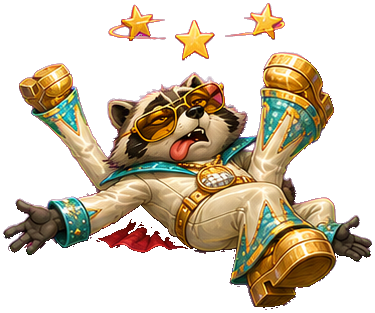
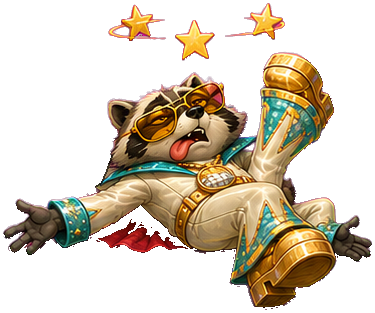
Jimothy: Disco ko loses the third leg at his shoulder, Robot ko loses the far right third leg (Stephen's call: cut it rather than remake); fresh cut edges get the painting's dark outline. ARTV 53. jimothy-check 60/60
Claude-Session: https://claude.ai/code/session_01S9L77GC2Lgd6XnbPF3XzMM

Changed region(s): [[0.0293, 0.2013, 0.3227, 0.6038]]

diff --git a/satellites/stream-hop/index.html b/satellites/stream-hop/index.html
@@ -13,7 +13,7 @@
 <link rel="preconnect" href="https://fonts.gstatic.com" crossorigin>
 <link href="https://fonts.googleapis.com/css2?family=Fredoka:wght@500;600;700&family=Nunito:wght@600;700;800&display=swap" rel="stylesheet">
 <link rel="manifest" href="manifest.webmanifest?v=29">
-<link rel="apple-touch-icon" href="assets/icons/jimothy-apple-180.png?a=52">
+<link rel="apple-touch-icon" href="assets/icons/jimothy-apple-180.png?a=53">
 <title>Jimothy Game: play the Seattle raccoon hopper free in your browser</title>
 <meta name="description" content="Meet Jumping Jimothy, Seattle's roundest and most beloved raccoon. Hop him across the rainy city to the greatest dumpster feast in town. Free to play in your browser.">
 <meta name="keywords" content="Jumping Jimothy, Jimothy, Jimothy the Jumping Nugget, Jimothy game, raccoon game, free browser game, Seattle raccoon, hopper, Sky Wolf Studio">
@@ -654,7 +654,7 @@ h2.sc-h{font-size:24px; color:var(--sage); font-weight:800; margin-bottom:4px}
 
   <!-- SPLASH (static ink-wash keyart front door — tap to enter. The old AI intro video is retired.) -->
   <div class="screen center on" id="s-splash" style="padding:0;background:#f2e7cf">
-    <img id="splash-img" src="assets/jimothy-hero.jpg?a=52" alt="Jimothy"
+    <img id="splash-img" src="assets/jimothy-hero.jpg?a=53" alt="Jimothy"
       style="position:absolute;inset:0;width:100%;height:100%;object-fit:contain;background:#f2e7cf">
     <div id="splash-tag">Jumping Jimothy</div>
     <div id="splash-hint">TAP TO START</div>
@@ -859,7 +859,7 @@ h2.sc-h{font-size:24px; color:var(--sage); font-weight:800; margin-bottom:4px}
   <!-- SUPPORT THE STUDIO -->
   <div class="screen" id="s-support"><div class="pad">
     <h2 class="sc-h">Support the Studio</h2>
-    <img id="sup-photo" src="assets/family.jpg?a=52" alt="The Sky Wolf family reading together with their dog and cats"
+    <img id="sup-photo" src="assets/family.jpg?a=53" alt="The Sky Wolf family reading together with their dog and cats"
       style="display:block;width:100%;max-width:430px;margin:0 auto 12px;border-radius:16px;border:1px solid var(--line)">
     <div class="sup-card">
       Sky Wolf Studio is a solo studio. It is me, Stephen, making every game in
@@ -873,7 +873,7 @@ h2.sc-h{font-size:24px; color:var(--sage); font-weight:800; margin-bottom:4px}
       <div style="margin-top:8px; color:var(--muted); font-size:12px">The pack is those costumes and the music, and that is all it ever is. New costumes are earned by showing up: one every seventh day in a row. Critters, colours, badges and landmarks stay earn-by-play for everyone, and supporting never buys progress. Thank you for being here at all.</div>
     </div>
     <div style="position:relative;max-width:430px;margin:0 auto 14px">
-      <img id="sup-banner" src="assets/ui/sup-banner.jpg?a=52" alt="The seven costumed Jimothys under the marquee" style="display:block;width:100%;border-radius:14px">
+      <img id="sup-banner" src="assets/ui/sup-banner.jpg?a=53" alt="The seven costumed Jimothys under the marquee" style="display:block;width:100%;border-radius:14px">
       <div style="position:absolute;top:7%;left:50%;transform:translateX(-50%);font-family:'Fredoka';font-weight:700;letter-spacing:.13em;color:#4a3a1c;font-size:14px;white-space:nowrap">THE SUPPORTER PACK</div>
     </div>
     <!-- ⛔ Signing up and being asked for money are two different conversations. The account
@@ -1080,7 +1080,7 @@ h2.sc-h{font-size:24px; color:var(--sage); font-weight:800; margin-bottom:4px}
 </div></div>
 
 <!-- the art atlas map (Lane D): its ?a= is ARTV, test/jimothy-check.js holds them equal -->
-<script src="assets/atlas/map.js?a=52"></script>
+<script src="assets/atlas/map.js?a=53"></script>
 <script>
 (function(){
 "use strict";
@@ -1453,7 +1453,7 @@ var IMGS={}, ART_ON=true;
    IGNORES in-place updates (it kept shipping the beheaded goose and the
    pre-demagenta purple sprites long after they were fixed in the repo).
    Bump ARTV whenever ANY file under assets/ changes in place. */
-var ARTV='52';
+var ARTV='53';
 /* ⛔ THE 429 LOCKOUT (2026-09-15): a first visit asks for over a hundred images at once, and the host's CDN
    edge answers most of them 429 with an empty body, then refuses the visitor for minutes. A failed image is
    tried again with a growing wait (2, 4, 8, 16, 32, 60 s), each try at its own URL so the browser cannot
